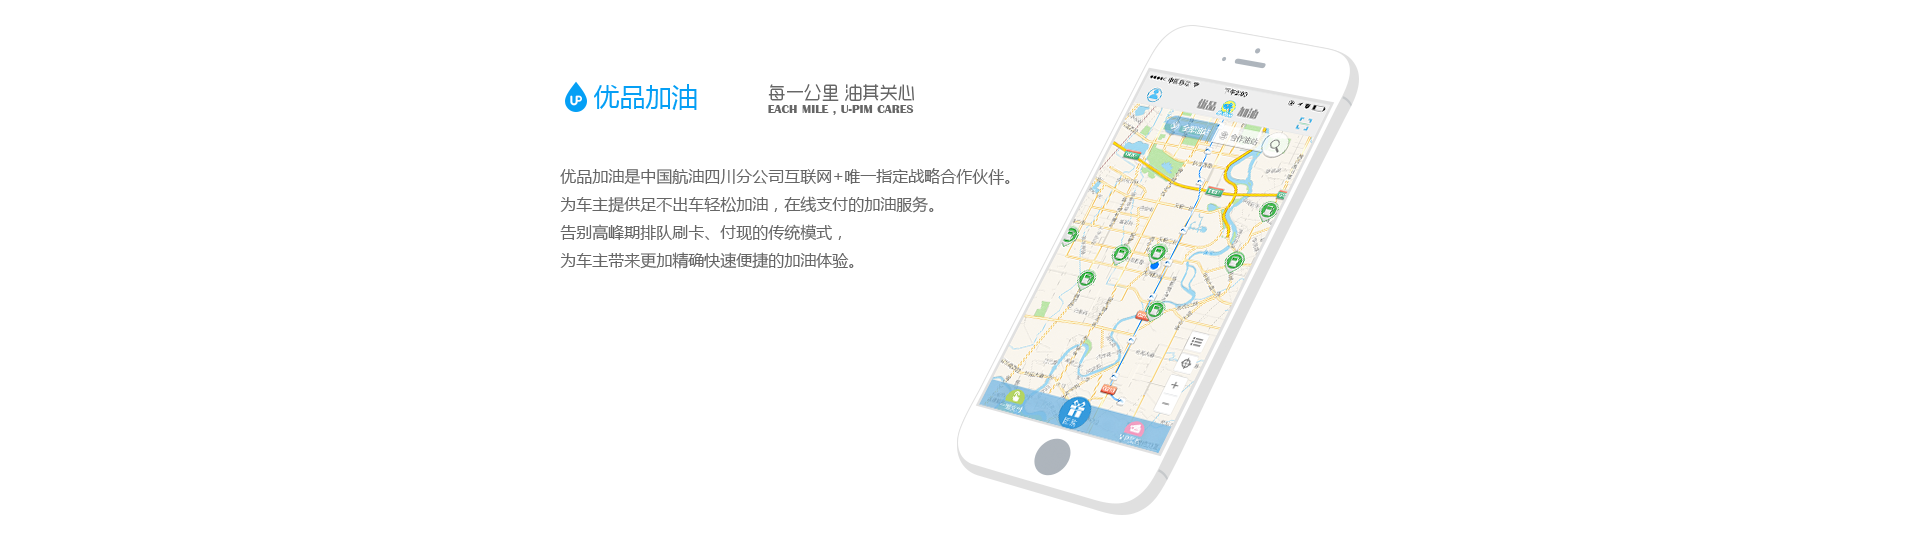
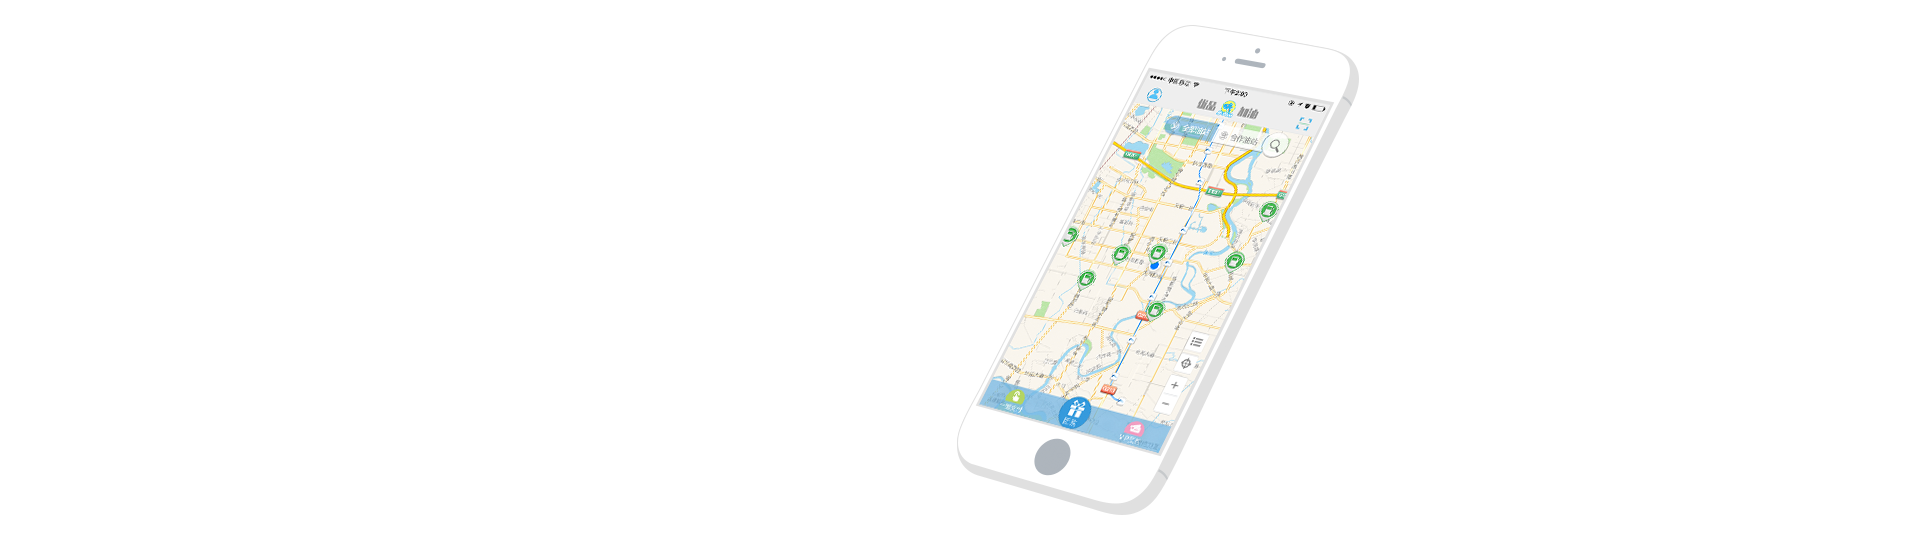
改版

Changed region(s): [[0.2812, 0.2963, 0.5312, 0.5037], [0.2812, 0.1481, 0.375, 0.2074], [0.4062, 0.1481, 0.4688, 0.2074]]

diff --git a/bosheng/首页.html b/bosheng/首页.html
@@ -17,6 +17,8 @@
 		margin: 20px auto;
 		padding: 0 0 50px;
 		background-color: #fff;
+        width: 100%;
+        height: 540px;
 	}
 
 	.swiper-slide img{
@@ -45,6 +47,51 @@
 	.swiper-container-horizontal>.swiper-pagination {
 		bottom: 40px;
 	}
+
+    .swiper-slide .title {
+        font-size: 41px;
+        font-weight: 300;
+    }
+
+    .swiper-slide .text {
+        font-size: 14px;
+        max-width: 400px;
+        line-height: 1.7;
+        padding-top:50px;
+        color: #666;
+    }
+
+    .swiper-slide {
+        background-position: center;
+        background-size: cover;
+    }
+
+    .swiper-slide .main-wrap{
+        width: 800px;
+        padding-top:50px;
+    }
+
+    span._up-img {
+        font-size: 26px;
+        color: #1da1f2;
+        padding-left:35px;
+        background: url("images/up_pic.png") center  left no-repeat;
+        background-size: 31px;
+
+    }
+
+    span._up-info{
+        font-size: 16px;
+        color: #666;
+        /* float: right; */
+        margin-left: 100px;
+        /* width: 100px; */
+        display: inline-block;
+    }
+
+    span._up-info em{
+        font-size: 12px;
+    }
 </style>
 </head>
 <body>
@@ -131,14 +178,48 @@
 
     <div class="swiper-container">
         <div class="swiper-wrapper">
-            <div class="swiper-slide">
-                <img src="images/midbanner1.png" alt="">
+            <div class="swiper-slide" style="background-image: url('images/midbanner1.png')">
+                <!--<img src="images/midbanner1.png" alt="">-->
+                <div class="main-wrap">
+                    <div class="title" data-swiper-parallax="-100">
+                        <span class="_up-img">优品加油1111</span>
+                        <span class="_up-info">每一公里 油其关心<br/><em>EACH MILE , U-PIM CARES</em></span>
+                    </div>
+                    <div class="text" data-swiper-parallax="-500">
+                        <p>优品加油是中国航油四川分公司互联网+唯一指定战略合作伙伴。
+                            为车主提供足不出车轻松加油，在线支付的加油服务。
+                            告别高峰期排队刷卡、付现的传统模式，
+                            为车主带来更加精确快速便捷的加油体验。</p>
+                    </div>
+                </div>
             </div>
-            <div class="swiper-slide">
-                <img src="images/midbanner1.png" alt="">
+            <div class="swiper-slide" style="background-image: url('images/midbanner1.png')">
+                <div class="main-wrap">
+                    <div class="title" data-swiper-parallax="-100">
+                        <span class="_up-img">优品加油2222</span>
+                        <span class="_up-info">每一公里 油其关心<br/><em>EACH MILE , U-PIM CARES</em></span>
+                    </div>
+                    <div class="text" data-swiper-parallax="-500">
+                        <p>优品加油是中国航油四川分公司互联网+唯一指定战略合作伙伴。
+                            为车主提供足不出车轻松加油，在线支付的加油服务。
+                            告别高峰期排队刷卡、付现的传统模式，
+                            为车主带来更加精确快速便捷的加油体验。</p>
+                    </div>
+                </div>
             </div>
-            <div class="swiper-slide">
-                <img src="images/midbanner1.png" alt="">
+            <div class="swiper-slide" style="background-image: url('images/midbanner1.png')">
+                <div class="main-wrap">
+                    <div class="title" data-swiper-parallax="-100">
+                        <span class="_up-img">优品加油3333</span>
+                        <span class="_up-info">每一公里 油其关心<br/><em>EACH MILE , U-PIM CARES</em></span>
+                    </div>
+                    <div class="text" data-swiper-parallax="-500">
+                        <p>优品加油是中国航油四川分公司互联网+唯一指定战略合作伙伴。
+                            为车主提供足不出车轻松加油，在线支付的加油服务。
+                            告别高峰期排队刷卡、付现的传统模式，
+                            为车主带来更加精确快速便捷的加油体验。</p>
+                    </div>
+                </div>
             </div>
         </div>
         <div class="swiper-pagination swiper-pagination-red"></div>
@@ -173,7 +254,11 @@ $(function(){
             paginationClickable: true,
             centeredSlides : true,
             loop:true,
-            autoplay:3000,
+//            autoplay:3000,
+            autoHeight: true,
+            parallax: true,
+            speed: 600,
+//            effect: 'fade',
             autoplayDisableOnInteraction:false
         });
    

diff --git a/bosheng/合作伙伴.html b/bosheng/合作伙伴.html
@@ -69,24 +69,36 @@
                             <img src="images/case_logo1.png" alt="">
                         </p>
                         <p class="-name">中国航油集团四川石油有限公司</p>
+                        <div class="-modal">
+                            <p class="-info">我们的优品加油平台上有很多的中航油合作加油站，长期良好的合作共同为互联网+做出一份努力。</p>
+                        </div>
                     </li>
                     <li>
                         <p class="-pic">
                             <img src="images/case_logo2.png" alt="">
                         </p>
                         <p class="-name">四川巨能天然气股份有限公司</p>
+                        <div class="-modal">
+                            <p class="-info">中国航油集团四川石油有限公司中国航油集团四川石油有限公司中国航油集团四川石油有限公司</p>
+                        </div>
                     </li>
                     <li>
                         <p class="-pic">
                             <img src="images/case_logo3.png" alt="">
                         </p>
                         <p class="-name">中国科学院成都计算机应用研究所 </p>
+                        <div class="-modal">
+                            <p class="-info">中国科学院成都计算机应用研究所中国科学院成都计算机应用研究所中国科学院成都计算机应用研究所中国科学院成都计算机应用研究所</p>
+                        </div>
                     </li>
                     <li>
                         <p class="-pic">
                             <img src="images/case_logo4.png" alt="">
                         </p>
                         <p class="-name">中石油新疆销售有限公司</p>
+                        <div class="-modal">
+                            <p class="-info">中石油新疆销售有限公司，中石油新疆销售有限公司中石油新疆销售有限公司。</p>
+                        </div>
                     </li>
                 </ul>
             </div>

diff --git a/bosheng/css/style.css b/bosheng/css/style.css
@@ -380,6 +380,9 @@
     padding: 40px 11px;
     text-align: center;
     margin-right: 20px;
+    position: relative;
+    overflow: hidden;
+    cursor: pointer;
 }
 
 .__case-list li .-pic{
@@ -401,6 +404,27 @@
     font-size: 14px;
 }
 
+.__case-list li .-modal{
+    position: absolute;
+    left:0;
+    bottom:-281px;
+    width:100%;
+    height:100%;
+    background: url("../images/opacity_0.png") repeat;
+}
+
+.__case-list li .-modal .-info{
+    font-size: 14px;
+    color: #fff;
+    text-align: left;
+    margin: 0 auto;
+    padding: 20px;
+    line-height: 1.7;
+    position: relative;
+    top: 50%;
+    margin-top: -66px;
+    height:132px;
+}
 
 #nav .-info .share a{
     display: inline-block;
@@ -1951,6 +1975,13 @@ left:2px;}
     font-size: 20px;
     font-weight: bold;
     margin-top: 60px;
+}
+
+.__join-hr{
+    color: #ff9e05;
+    font-size: 16px;
+    line-height:1.5;
+    margin-top: 20px;
 }
 
 .__join-us:hover{

diff --git a/bosheng/招贤纳士.html b/bosheng/招贤纳士.html
@@ -69,6 +69,7 @@
             </div>
 
             <a href="###"  class="__join-us">立即加入</a>
+            <p class="__join-hr">或Contact HR 发简历到HR邮箱<br/>邮箱：hr@bs-innotech.com</p>
         </div>
         <div class="fr __invite-fr">
             <p class="__tit">JOIN US</p>
@@ -76,7 +77,7 @@
 
             <div class="__position-work">
                 <div class="__img"></div>
-                <span>统统都到碗里来</span>
+                <!--<span>统统都到碗里来</span>-->
             </div>
         </div>
 

diff --git a/bosheng/js/base.js b/bosheng/js/base.js
@@ -11,5 +11,15 @@ $(function(){
     //
 	//	$(this).scrollTop()>100?topNav.stop(false,true).addClass("active"):topNav.stop(false,true).removeClass("active");
 	//});
+
+	$(".__case-list li").hover(function(){
+		$(this).find(".-modal").animate({
+			'bottom':"0"
+		},500);
+	},function(){
+		$(this).find(".-modal").animate({
+			'bottom':"-281px"
+		},500);
+	});
 });
 
